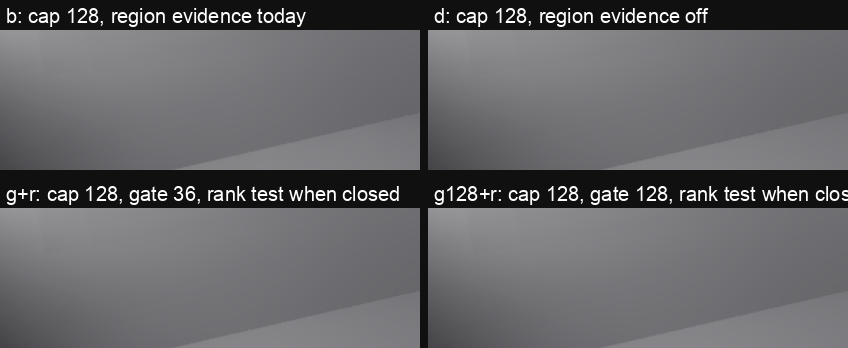
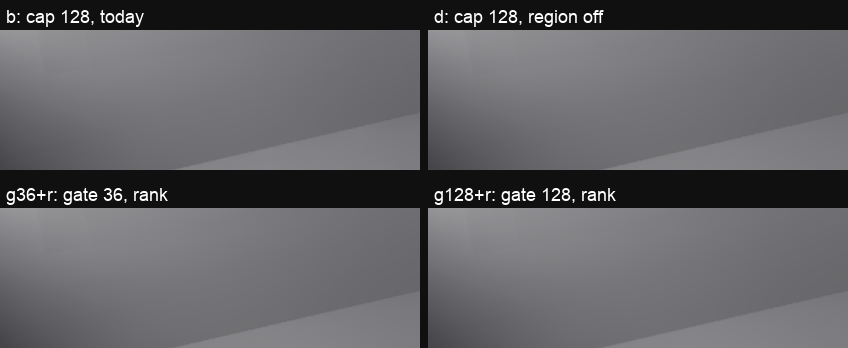
Fix review findings in the t1-yi11 g128+r validation record (t1-yi11)
- Fix README.md settled rect-bay right-wall bound (+0.94 gray at draw 0, -0.81 floor at draw 168), turned rect-bay 55-draw wording (excluding draw 40 at 7.93 gray), and cabin-switch gate close draw (302 with 2 invalid anchors open) plus g36+r rank-test attribution.
- Document 11 x 20 full 96 x 96 tile coverage (y = 0 to 1055) in README.md and tools/g128r.py, slice width symmetrically, note switch omits log, and guard optional custom column arguments.
- Shorten bay.py labels (g36+r / g128+r) and auto-fit header font to tile width; regenerate the 10 bay-*-g128r.png crops with zero overlap and identical bay-numbers-g128r.json.
- Remove STE80 prose semicolons in the validation section and put the nine wall/floor runs into a table.

Changed region(s): [[0.0, 0.5172, 1.0, 0.6034], [0.0, 0.0, 0.3679, 0.0862], [0.4906, 0.0287, 0.8585, 0.0862]]

diff --git a/docs/research/t1-yi11-region-evidence/tools/g128r.py b/docs/research/t1-yi11-region-evidence/tools/g128r.py
@@ -5,7 +5,8 @@
 #   turned:  the same turned 90 degrees left (rbst-<column>), columns bl gr g128r g;
 #   switch:  the viewable cabin switch (swf-<column>, film draws 150 to 459), columns b gr g128r g.
 # The units: the mean 8-bit gray of the kept PNGs (1920 x 1080 output, drawn at 1280 x 720). The tiles are the anchors'
-# spacing in output pixels: an anchor every 8 blocks of 8 render pixels, 64 render pixels, 96 output pixels.
+# spacing in output pixels: an anchor every 8 blocks of 8 render pixels, 64 render pixels, 96 output pixels. Tile metrics
+# cover the 11 x 20 full 96 x 96 output tiles (y = 0 to 1055, omitting the partial bottom 24 px of anchor row 11).
 # For each column it writes into <record>/g128r-<film>.json:
 #   - curves: per draw, the mean gray of the film's boxes;
 #   - tiles: per draw, the largest difference of a 96 x 96 tile's mean gray between g128r and each other column (a
@@ -17,7 +18,8 @@
 #     same for the largest tile, and for the switch the same inside the windows after each cause leaves the rays (film
 #     draws 205 to 295 and 405 to 459), where the switch's own steps do not count;
 #   - log: per draw, from each column's region-summary.json (regionlog.py), the anchors that answer yes and the anchors
-#     whose gate is open (cause age under 36 or under 128).
+#     whose gate is open (cause age under 36 or under 128). Omitted (empty dict) for switch, whose logs are read via
+#     regionlog.py directly.
 # With CROPS="d1,d2,..." it writes pictures/<name>-g128r-crops.png: 1:1 crops of the box CROPBOX="x0,y0,x1,y1" for each
 # column and draw, the columns side by side, one row per draw. CROPTAG=<suffix> adds a suffix to that name, and
 # CROPCOLS="c1,c2,..." picks its columns (default: all). Run it in the dev shell.
@@ -61,7 +63,7 @@ def grays(col):
 
 def tiles(g):
     h, w = g.shape
-    return g[:h - h % TILE, :w].reshape(h // TILE, TILE, w // TILE, TILE).mean(axis=(1, 3))
+    return g[:h - h % TILE, :w - w % TILE].reshape(h // TILE, TILE, w // TILE, TILE).mean(axis=(1, 3))
 
 
 frames = {col: grays(col) for col in columns}
@@ -72,27 +74,29 @@ for col in columns:
     out['curves'][col] = {name: [float(g[y0:y1, x0:x1].mean()) for g in frames[col][:count]]
                           for name, (x0, y0, x1, y1) in spec['boxes'].items()}
 tile_series = {col: np.array([tiles(g) for g in frames[col][:count]]) for col in columns}
-for col in columns:
-    if col == 'g128r':
-        continue
-    diff = tile_series['g128r'] - tile_series[col]
-    per_draw = np.abs(diff).reshape(count, -1).max(axis=1)
-    k = int(per_draw.argmax())
-    ty, tx = np.unravel_index(np.abs(diff[k]).argmax(), diff[k].shape)
-    out['tiles'][col] = {'perDraw': [float(v) for v in per_draw], 'largest': float(diff[k, ty, tx]),
-                         'draw': first + k, 'tile': [int(tx) * TILE, int(ty) * TILE]}
+if 'g128r' in tile_series:
+    for col in columns:
+        if col == 'g128r':
+            continue
+        diff = tile_series['g128r'] - tile_series[col]
+        per_draw = np.abs(diff).reshape(count, -1).max(axis=1)
+        k = int(per_draw.argmax())
+        ty, tx = np.unravel_index(np.abs(diff[k]).argmax(), diff[k].shape)
+        out['tiles'][col] = {'perDraw': [float(v) for v in per_draw], 'largest': float(diff[k, ty, tx]),
+                             'draw': first + k, 'tile': [int(tx) * TILE, int(ty) * TILE]}
 bcol = 'bl' if 'bl' in columns else 'b'
 out['tilesAgainstB'] = {}
-for col in columns:
-    if col == bcol:
-        continue
-    diff = tile_series[col] - tile_series[bcol]
-    per_draw = np.abs(diff).reshape(count, -1).max(axis=1)
-    k = int(per_draw.argmax())
-    ty, tx = np.unravel_index(np.abs(diff[k]).argmax(), diff[k].shape)
-    out['tilesAgainstB'][col] = {'perDraw': [float(v) for v in per_draw], 'largest': float(diff[k, ty, tx]),
-                                 'draw': first + k, 'tile': [int(tx) * TILE, int(ty) * TILE],
-                                 'drawsOver4': int((per_draw > 4).sum()), 'drawsOver8': int((per_draw > 8).sum())}
+if bcol in tile_series:
+    for col in columns:
+        if col == bcol:
+            continue
+        diff = tile_series[col] - tile_series[bcol]
+        per_draw = np.abs(diff).reshape(count, -1).max(axis=1)
+        k = int(per_draw.argmax())
+        ty, tx = np.unravel_index(np.abs(diff[k]).argmax(), diff[k].shape)
+        out['tilesAgainstB'][col] = {'perDraw': [float(v) for v in per_draw], 'largest': float(diff[k, ty, tx]),
+                                     'draw': first + k, 'tile': [int(tx) * TILE, int(ty) * TILE],
+                                     'drawsOver4': int((per_draw > 4).sum()), 'drawsOver8': int((per_draw > 8).sum())}
 for col in columns:
     entry = {}
     for name, series in out['curves'][col].items():

diff --git a/docs/research/t1-yi11-region-evidence/tools/bay.py b/docs/research/t1-yi11-region-evidence/tools/bay.py
@@ -38,11 +38,11 @@ R = Path('/private/tmp/t1-yi11/runs')
 OUT = Path(__file__).resolve().parent.parent / 'pictures'
 OUT.mkdir(exist_ok=True)
 columns = sys.argv[1:] or ['a', 'b', 'c', 'd']
-LABELS = {'a': 'a: main, cap 32', 'b': 'b: cap 128, region evidence today', 'c': 'c: cap 128, repaired test',
-          'd': 'd: cap 128, region evidence off', 'e': 'e: cap 64, region evidence off',
-          'g': 'g: cap 128, cause gate 128', 'r': 'r: cap 128, signed rank test',
-          'gr': 'g+r: cap 128, gate 36, rank test when closed',
-          'g128r': 'g128+r: cap 128, gate 128, rank test when closed'}
+LABELS = {'a': 'a: main, cap 32', 'b': 'b: cap 128, today', 'c': 'c: cap 128, repaired test',
+          'd': 'd: cap 128, region off', 'e': 'e: cap 64, region off',
+          'g': 'g: cap 128, gate 128', 'r': 'r: cap 128, rank',
+          'gr': 'g36+r: gate 36, rank',
+          'g128r': 'g128+r: gate 128, rank'}
 CAPS = {'a': 32, 'b': 128, 'c': 128, 'd': 128, 'e': 64, 'g': 128, 'r': 128, 'gr': 128, 'g128r': 128}
 # SP="c1,c2" reads those columns' stills and dump from their sparse takes bay-<column>-sp and bay-<column>-sp-dif
 # (gtakes.sh sparse), whose last kept draw is 659 and whose dump is at draw 639 too.
@@ -118,10 +118,15 @@ for col in columns:
               f"{row['blobDiffuse']:.4f} | {row['rounding']:.4f} | {row['mottle']:.3f} |")
 (OUT.parent / f'bay-numbers{TAG}.json').write_text(json.dumps(rows, indent=1))
 
-try:
-    font = ImageFont.truetype('/System/Library/Fonts/Supplemental/Arial.ttf', 20)
-except OSError:
-    font = ImageFont.load_default()
+def font_for(draw, labels, max_w):
+    for size in (18, 16, 14, 12, 10):
+        try:
+            f = ImageFont.truetype('/System/Library/Fonts/Supplemental/Arial.ttf', size)
+        except OSError:
+            return ImageFont.load_default()
+        if all(draw.textlength(label, font=f) <= max_w for label in labels):
+            return f
+    return f
 
 
 def grid(tiles, w, h):
@@ -129,10 +134,11 @@ def grid(tiles, w, h):
     rows_n = (len(tiles) + 1) // 2
     sheet = Image.new('RGB', (2 * w + 8, rows_n * (h + 38) - 8), (16, 16, 16))
     draw = ImageDraw.Draw(sheet)
+    f = font_for(draw, [label for label, _ in tiles], w - 12)
     for i, (label, tile) in enumerate(tiles):
         x, y = (i % 2) * (w + 8), (i // 2) * (h + 38)
         sheet.paste(tile, (x, y + 30))
-        draw.text((x + 6, y + 4), label, fill=(255, 255, 255), font=font)
+        draw.text((x + 6, y + 6), label, fill=(255, 255, 255), font=f)
     return sheet
 
 

diff --git a/docs/research/t1-yi11-region-evidence/README.md b/docs/research/t1-yi11-region-evidence/README.md
@@ -457,28 +457,29 @@ Two facts frame every scene:
 
 ### How to make them again
 
-From the checkout's root, with bash:
+From the checkout's root, with bash (all tool paths sit under `docs/research/t1-yi11-region-evidence/`):
 
-1. `bash tools/films.sh rect-bay-settled g128r`, `TURN=90 bash tools/films.sh rect-bay-settled g128r`,
-   `KEEP=none bash tools/films.sh switch g128r` and `bash tools/films.sh switch-film g128r` (paths under
-   `docs/research/t1-yi11-region-evidence/`). `KEEP=none` keeps no frame of the switch run, whose false-colour PNGs fill
-   2 GiB.
-2. The frozen bay with sparse captures (`KEEP_LIST`, a list of draws): `KEEP_LIST=<list> bash tools/gtakes.sh sparse g128r`,
-   then `KEEP_LIST=24,32,36,40,48,56,64,72,80,88,96,104,112,120,127,136,152,168,200,240,300,639,659 bash tools/gtakes.sh
-   sparse b gr`, and `bash tools/gtakes.sh long g128r` and `longfull g128r`. g128+r's list is the same early draws, the
-   draws run - 1, + 2, + 6, + 12 and + 24 of its nine answer runs, and draws 400, 500, 600, 639 and 659.
-3. `python3 -I tools/regionlog.py <folder> <after draw>` for each log; `tools/g128r.py <settled|turned|switch>` (curves,
-   tiles, flicker, 1:1 crops with `CROPS`, `CROPBOX`, `CROPTAG` and `CROPCOLS`); `tools/switchratio.py b g r gr g128r`;
-   `WALL=1 RUNS=<draw:x:y,...> tools/baycold.py`; `SP=g128r TAG=-g128r tools/bay.py b d gr g128r`; `tools/level.py a b c d
-   g r gr n32 n128 g128r`. Run the Python tools in the dev shell.
+1. Films: run `bash tools/films.sh rect-bay-settled g128r`, `TURN=90 bash tools/films.sh rect-bay-settled g128r`, `KEEP=none bash tools/films.sh switch g128r`, and `bash tools/films.sh switch-film g128r`. `KEEP=none` drops the false-colour switch PNGs, which otherwise fill 2 GiB.
+2. Frozen bay (sparse captures, with `KEEP_LIST` naming the kept draws):
+   - Run `KEEP_LIST=<list> bash tools/gtakes.sh sparse g128r`. The list holds the early draws (`24` to `300`), the draws `run - 1`, `+ 2`, `+ 6`, `+ 12`, and `+ 24` of its nine answer runs, and draws `400`, `500`, `600`, `639`, and `659`.
+   - Run `KEEP_LIST=24,32,36,40,48,56,64,72,80,88,96,104,112,120,127,136,152,168,200,240,300,639,659 bash tools/gtakes.sh sparse b gr`.
+   - Run `bash tools/gtakes.sh long g128r` and `bash tools/gtakes.sh longfull g128r`.
+3. Analysis tools (run inside `nix develop`):
+   - `python3 -I tools/regionlog.py <folder> <after draw>` for each log.
+   - `python3 -I tools/g128r.py <settled|turned|switch>` for curves, tiles, flicker, and 1:1 crops (with `CROPS`, `CROPBOX`, `CROPTAG`, and `CROPCOLS`).
+   - `python3 -I tools/switchratio.py b g r gr g128r`.
+   - `WALL=1 RUNS=<draw:x:y,...> python3 -I tools/baycold.py`.
+   - `SP=g128r TAG=-g128r python3 -I tools/bay.py b d gr g128r`.
+   - `python3 -I tools/level.py a b c d g r gr n32 n128 g128r`.
 
 The sparse reruns of b and g36+r match the earlier takes byte for byte (stills at draws 300, 639 and 659, the ring logs
 and the length dumps). So the earlier frames of draws 300 to 659 serve as g36+r's frames there.
 
 Measures used below:
 
-- Tile difference: the largest difference of a 96 x 96 output tile's mean 8-bit gray between two columns at one draw.
-  96 output pixels are the anchors' spacing. A staircase along the anchors' blocks shows as a large tile difference.
+- Tile difference: the largest difference of a 96 x 96 output tile's mean 8-bit gray between two columns at one draw,
+  over the 11 x 20 full 96 x 96 tiles (output y 0 to 1055, omitting the partial bottom 24 px of anchor row 11). 96 output
+  pixels are the anchors' spacing. A staircase along the anchors' blocks shows as a large tile difference.
 - Flicker: the largest |m(k + 1) - 2 m(k) + m(k - 1)| of a box's or a tile's mean 8-bit gray over the film's draws k.
   A smooth decay gives a small value.
 - Patch (cold start): the band from 3 to 36 px of a still minus column d's late mean (bay-d-long, draws 660 to 1,610),
@@ -487,7 +488,7 @@ Measures used below:
 
 ### Settled rect-bay
 
-Files: `g128r-settled.json`, `logs/rbs-g128r.json`, `rbs-curve.json` (g128r added; the old columns are unchanged),
+Files: `g128r-settled.json`, `logs/rbs-g128r.json`, `rbs-curve.json` (g128r added, with the old columns unchanged),
 `videos/rect-bay-settled-g128r.mp4` (a | b over g36+r | g128+r), `pictures/rect-bay-settled-g128r-sheet.png` (a, b,
 g36+r and g128+r at film draws 45, 63, 75, 105 and 150), `pictures/rect-bay-settled-g128r-crops.png` (1:1, the right
 wall's anchor boundary, output x 960 to 1600, y 100 to 580, a, b, g36+r, g128+r and g at film draws 48, 75, 105 and 150)
@@ -507,15 +508,16 @@ Measured, mean 8-bit gray (film draw k is log draw 200 + k):
 | | g128+r | 215.4 | 209.9 | 189.4 | 166.1 | 140.5 | 97.7 | 79.1 | 71.6 |
 | | g | 215.4 | 213.3 | 209.1 | 203.2 | 196.5 | 182.5 | 170.3 | 159.2 |
 
-- Whole picture: g128+r minus b is at most +3.33 gray (film draw 48). g128+r minus g36+r is within 0.81 gray in every box.
-- Tiles: g128+r minus b is at most +20.93 gray, at film draw 63, in the floor's tile at x 1344, y 960. 39 draws (film
-  draws 37 to 75) have a tile over 8 gray. g36+r gives +21.57 gray at the same tile and draw, and 40 draws. g gives
-  +111.47 gray (draw 161). g128+r minus g36+r is at most 8.35 gray.
+- Whole picture: g128+r minus b is at most +3.33 gray (film draw 48). Across all boxes, g128+r minus g36+r stays within
+  0.94 gray (+0.94 on the right wall at draw 0, -0.81 on the floor at draw 168).
+- Tiles: g128+r minus b peaks at +20.93 gray at film draw 63 in the floor tile at x 1344, y 960. 39 draws (film draws 37
+  to 75) have a tile over 8 gray. g36+r peaks at +21.57 gray at the same tile and draw, with 40 draws over 8 gray. g peaks
+  at +111.47 gray (draw 161). g128+r minus g36+r is at most 8.35 gray.
 - Flicker: the same in a, b, g36+r and g128+r (whole 0.24 to 0.25 gray, largest tile 10.38 to 10.43 gray at film draw
   114, where the sunbeam's edge passes).
-- Ring log: in the 200 frozen draws before the film, g128+r answers 314 times in log draws 36 to 127 (b also answers 314
-  times) and 0 times in log draws 128 to 199. g36+r answers 5 and 0 times. From film draw 30 to 179, 144 to 149 of 240
-  anchors have an open gate under g128+r, against 11 to 147 under g36+r. Yes answers over the film: b 28,408, g36+r 24,884,
+- Ring log: in the 200 frozen warm-up draws before the film, g128+r answers 314 times in log draws 36 to 127 (matching b)
+  and 0 times in log draws 128 to 199. g36+r answers 5 and 0 times. From film draw 30 to 179, 144 to 149 of 240 anchors
+  have an open gate under g128+r, against 11 to 147 under g36+r. Yes answers over the film: b 28,408, g36+r 24,884,
   g128+r 26,284, g 15,948.
 
 Reading:
@@ -529,7 +531,7 @@ Reading:
 
 ### Turned rect-bay
 
-Files: `g128r-turned.json`, `logs/rbst-g128r.json`, `rbst-curve.json` (g128r added; the old columns are unchanged),
+Files: `g128r-turned.json`, `logs/rbst-g128r.json`, `rbst-curve.json` (g128r added, with the old columns unchanged),
 `videos/rect-bay-turned-g128r.mp4` (b | g36+r over g128+r | g), `pictures/rect-bay-turned-g128r-sheet.png` (film draws
 0, 60, 75, 90 and 150) and `pictures/rect-bay-turned-g128r-crops.png` (1:1, x 960 to 1920, y 480 to 1080, b, g36+r and
 g128+r at film draws 60, 70, 80 and 90).
@@ -542,7 +544,7 @@ Measured:
   The largest channel difference is 12 codes, and the largest mean absolute difference of a frame is 0.18 codes.
   The largest tile difference between them is 0.45 gray. The box curves agree to 0.1 gray.
 - Against b, the largest tile difference is +25.62 gray at film draw 80 (tile x 1824, y 864), with 55 draws over 8 gray
-  (film draws 39 to 94). g36+r gives +25.57 gray and the same 55 draws.
+  (within film draws 39 to 94, all except draw 40 at 7.93 gray). g36+r gives +25.57 gray and the same 55 draws.
 
 Reading: g128+r equals g36+r in the turned take, as expected with no cause. Both show a soft blocky patchwork of lighter
 rectangles on the wall ahead and the floor at film draws 60 to 80. I see it at sheet scale, and clearly at 1:1. It is
@@ -576,13 +578,15 @@ The whole picture against its control, switch / control - 1:
 
 The interval after each cause leaves the rays (causes at film draws 163 to 169 and 363 to 369):
 
-- After off, g36+r's gates close at film draws 205 to 210. g128+r's stay open (240 anchors) to film draw 296, and close
-  by draw 304. In film draws 205 to 295, today's test answers 4,335 times under g128+r and 1,935 times under g36+r. In
-  draws 296 to 359 g128+r answers 8 times, g36+r 0 times.
+- After off, g36+r's valid gates close at film draws 205 to 210 (2 invalid anchors stay open). g128+r's stay open (240
+  anchors) to film draw 296, and all 238 valid gates close by draw 302 (2 invalid anchors stay open). In film draws 205
+  to 295, g128+r answers 4,335 times (today's test, gate open) and g36+r answers 1,935 times (mostly the rank test after
+  its valid gates close at draws 205 to 210). In draws 296 to 359, g128+r answers 8 times and g36+r answers 0 times.
 - After on, g128+r's gates stay open through film draw 459. In film draws 405 to 459 g128+r answers 3,045 times, g36+r
   843 times.
-- The largest |switch / control - 1| in film draws 205 to 295: whole 0.125 (g128+r), 0.146 (g36+r), 0.121 (b); any
-  changed region 0.195, 0.238 and 0.187. In draws 405 to 459: whole 0.030, 0.023 and 0.030.
+- Largest |switch / control - 1| in film draws 205 to 295: whole 0.125 (g128+r), 0.146 (g36+r), and 0.121 (b). Across
+  changed regions: 0.195 (g128+r), 0.238 (g36+r), and 0.187 (b). In draws 405 to 459, the whole-picture peak is 0.030,
+  0.023, and 0.030.
 - Viewable film, mean 8-bit gray of the whole picture (lower half): draw 230: b 48.72 (38.72), g36+r 48.71 (38.71),
   g128+r 48.77 (38.76). Draw 295: 47.05 (37.23), 47.48 (37.57), 47.06 (37.23). Draw 359: 46.77 (37.00), 47.24 (37.37),
   46.81 (37.02). Draw 420: 103.18 (106.49), 103.07 (106.42), 103.13 (106.45).
@@ -598,12 +602,12 @@ I see no blotch, false cut or flicker in film draws 205 to 295 or 405 to 459, in
 ### The frozen bay from the start
 
 Files: `baycold.json`, `logs/bay-g128r.json` (the sparse take's log, draws 0 to 659), `logs/bay-g128r-long-dif.json`,
-`bay-numbers-g128r.json`, `level.json` (g128r added; the old columns are unchanged), `pictures/bay-cold-<floor|back-wall>-
+`bay-numbers-g128r.json`, `level.json` (g128r added, with the old columns unchanged), `pictures/bay-cold-<floor|back-wall>-
 <dif|full>.png` and `pictures/bay-cold-<floor|back-wall>-dif-residual.png` (1:1, b, g36+r and g128+r at draws 40, 64, 96,
 127, 152, 200, 300 and 659), and `pictures/bay-<region>-<kind>-g128r.png` (bay.py's crops at draw 659 and the residuals
 of the long takes, b, d, g36+r and g128+r).
 
-Measured, the ring logs (draws 0 to 659, the diffuse take; the full take's log gives the same counts after draw 300):
+Measured, the ring logs (draws 0 to 659 of the diffuse take, which matches the full take's counts after draw 300):
 
 | Draws | b: yes / tested | g36+r | g128+r |
 |---|---:|---:|---:|
@@ -632,11 +636,13 @@ Measured, the patch on the diffuse signal alone, floor / back wall:
   gives the same order (floor at draw 127: b 0.0141, g36+r 0.0083, g128+r 0.0141).
 - In draws 128 to 300, g128+r's patch falls from b's to g36+r's. It is within 0.0003 of g36+r's on the floor and the
   back wall at draw 300.
-- The level, diffuse alone, floor against d's late mean: draw 127, b 0.9808, g36+r 0.9534, g128+r 0.9808; draw 300,
-  0.9973, 0.9775 and 0.9915. The cuts of draws 36 to 127 make g128+r's bounce light warm up faster than g36+r's.
-- Settled (the long take, draws 660 to 1,610, and draw 659): mean length 128.0 in all four regions at draw 639, all at
-  the cap. Blob: sunlit patch 0.0031, back wall 0.0038, floor 0.0040, right wall 0.0022 (g36+r: 0.0031, 0.0038, 0.0041,
-  0.0022; d: 0.0025, 0.0038, 0.0041, 0.0021). Mottle on the floor 2.304, as g36+r.
+- The floor level (diffuse alone, against d's late mean) reaches 0.9808 (b), 0.9534 (g36+r), and 0.9808 (g128+r) at draw
+  127. By draw 300, those levels reach 0.9973 (b), 0.9775 (g36+r), and 0.9915 (g128+r). The cuts of draws 36 to 127 make
+  g128+r's bounce light warm up faster than g36+r's.
+- Settled (the long take, draws 660 to 1,610, and draw 659): mean length is 128.0 in all four regions at draw 639. Blob
+  values are 0.0031 (sunlit patch), 0.0038 (back wall), 0.0040 (floor), and 0.0022 (right wall). g36+r gives 0.0031,
+  0.0038, 0.0041, and 0.0022, and d gives 0.0025, 0.0038, 0.0041, and 0.0021. Mottle on the floor is 2.304, matching
+  g36+r.
 
 Reading:
 
@@ -656,16 +662,25 @@ level of 7.6e-5).
 Measured for g128+r:
 
 - Draws 301 to 659: 14 yes answers in 9 runs in 83,647 tested anchor-draws, 1.67e-4, 2.2 times the level. 8 runs are
-  g36+r's runs at the same draw and anchor: 333 (18, 4), 335 (2, 10), 360 (18, 5), 376 (17, 0), 395 (1, 2), 415 (16, 4),
-  433 (17, 3) and 558 (2, 10). The ninth is new, at draw 416, anchor (10, 11), the floor's bottom edge.
+  g36+r's runs at the same draw and anchor, and the ninth is new at draw 416, anchor (10, 11) on the floor's bottom edge.
 - Draws 661 to 1,659 (the long take): 23 yes answers in 14 runs in 232,767 tested anchor-draws, 9.88e-5, 1.3 times the
   level.
-- The patch of g128+r's diffuse still minus d's still of the same draw, in a 288 x 288 crop around the run's anchor,
-  before the run and 6 draws after it: 333: 0.0023 to 0.0051; 335: 0.0066 to 0.0063; 360: 0.0046 to 0.0059; 376: 0.0009
-  to 0.0037; 395: 0.0010 to 0.0011; 415: 0.0016 to 0.0053; 416: 0.0016 to 0.0061; 433: 0.0034 to 0.0044; 558: 0.0051 to
-  0.0045. Pictures: `pictures/bay-wall-runs-g128r-dif.png` (per run, the diffuse still and the diffuse still minus d's
-  times 10, at the run's draw - 1, + 2, + 6, + 12 and + 24) and `pictures/bay-wall-runs-g128r-full.png` (the full
-  picture at the same draws).
+
+Patch of g128+r's diffuse still minus d's still of the same draw, in a 288 x 288 crop around each run's anchor (pictures:
+`pictures/bay-wall-runs-g128r-dif.png` and `pictures/bay-wall-runs-g128r-full.png`, showing draw - 1, + 2, + 6, + 12,
+and + 24):
+
+| Run draw | Anchor | Patch at draw - 1 | Patch at draw + 6 | Shared with g36+r |
+|---:|---|---:|---:|---|
+| 333 | (18, 4) | 0.0023 | 0.0051 | yes |
+| 335 | (2, 10) | 0.0066 | 0.0063 | yes |
+| 360 | (18, 5) | 0.0046 | 0.0059 | yes |
+| 376 | (17, 0) | 0.0009 | 0.0037 | yes |
+| 395 | (1, 2) | 0.0010 | 0.0011 | yes |
+| 415 | (16, 4) | 0.0016 | 0.0053 | yes |
+| 416 | (10, 11) | 0.0016 | 0.0061 | new (floor bottom edge) |
+| 433 | (17, 3) | 0.0034 | 0.0044 | yes |
+| 558 | (2, 10) | 0.0051 | 0.0045 | yes |
 
 Reading, kept apart from the numbers:
 
